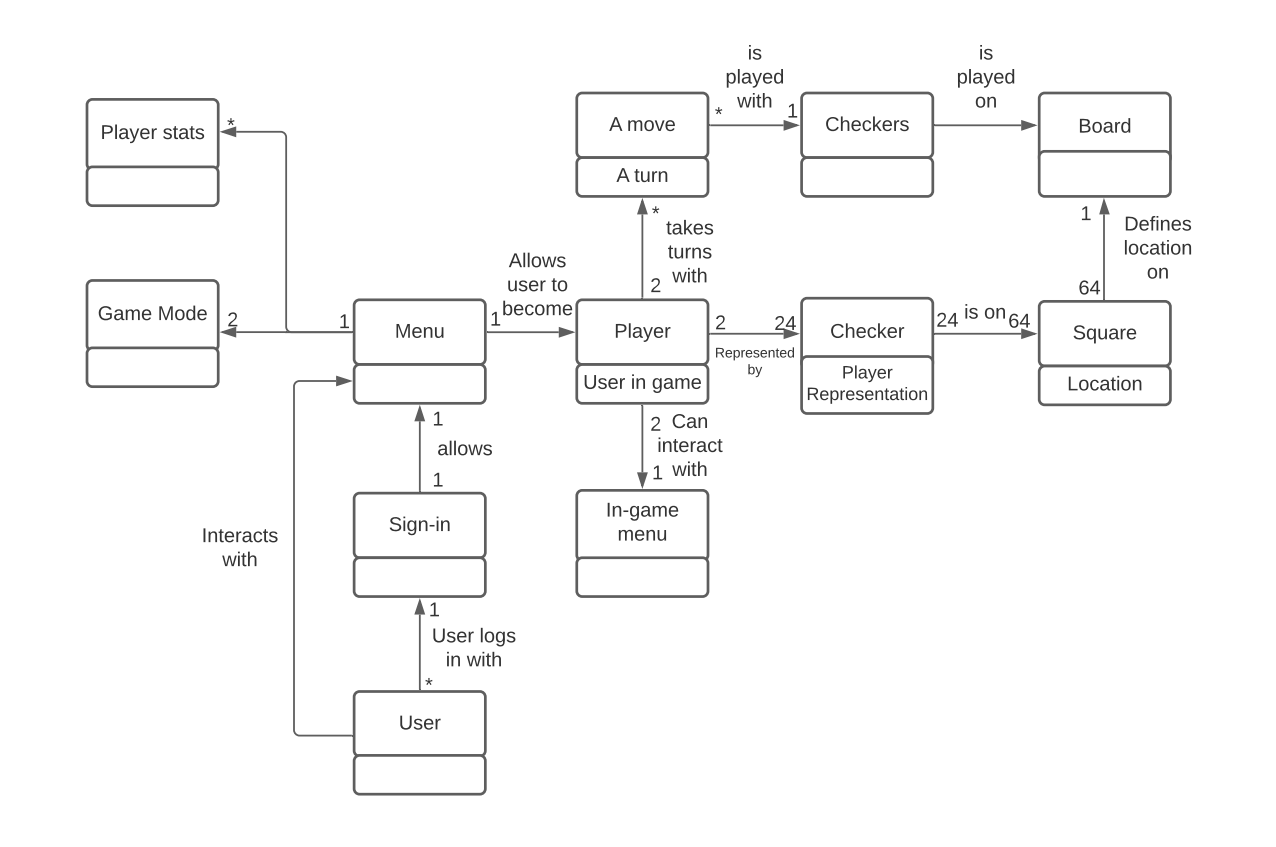
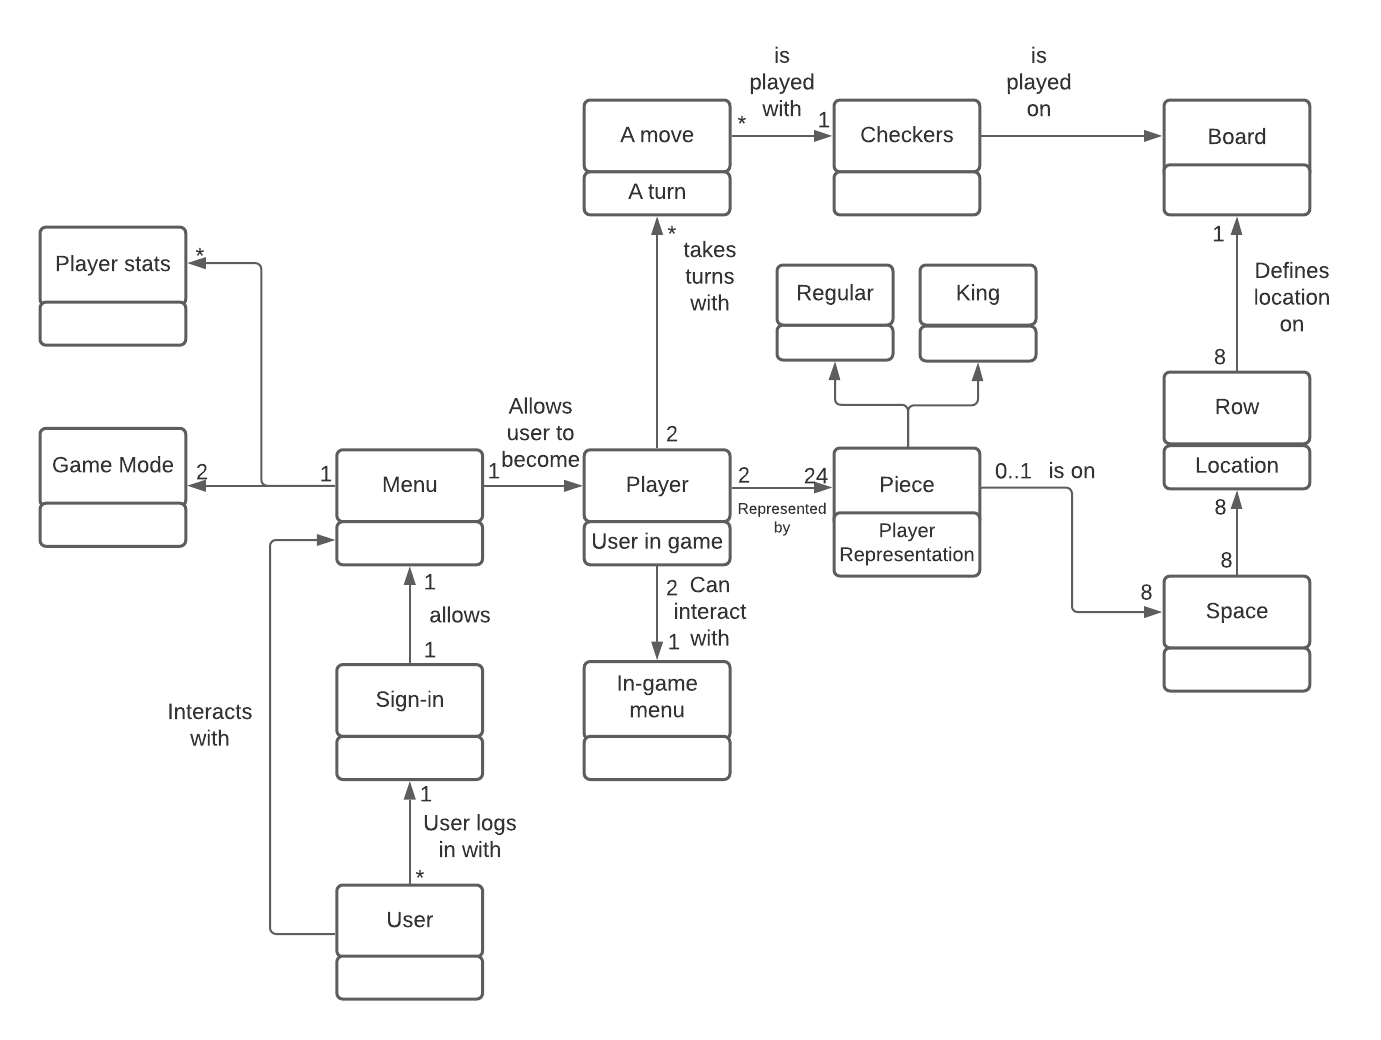
Updated Domain Model and edited DesignDoc.md

diff --git a/docs/DesignDoc.md b/docs/DesignDoc.md
@@ -14,6 +14,7 @@ geometry: margin=1in
 
 ## Executive Summary
 
+
 ### Purpose
 > This project is a web-application of checkers. 
 > Users should be able to log-in, and play against other players.
@@ -52,12 +53,29 @@ This section describes the application domain.
 
 ![The WebCheckers Domain Model](DomainModelTeam.png)
 
-> _Provide a high-level overview of the domain for this application. You
-> can discuss the more important domain entities and their relationship
-> to each other._
+The domain highlights the general flow of the application:
+- The user signs in to be at the home page (menu)
+  
+- The user can then start a game (becoming a Player) or check player stats 
+  for competitive mode
+  
+- The player can make a move to play the game
+  
+- The move communicates with the model which includes
+  the Board, Row, Space, and Pieces
+  
+- The player plays the game
 
-EDIT THIS
+The most important entities of the domain model are the Player, Board, Row, 
+Space, and Piece entities.
 
+- Each set of 24 checker Pieces on the board represents a Player in the
+  game. Players take a turn when they make a move which is played with
+  Checkers which are on the board.
+  
+- Regular or King Pieces are on specific Spaces which belong to Rows which also
+  builds the entire Board. In short, there can be zero or one Piece on each Space,
+  there are 8 Spaces on each Row, and there are 8 Rows on a board.
 
 ## Architecture and Design
 
